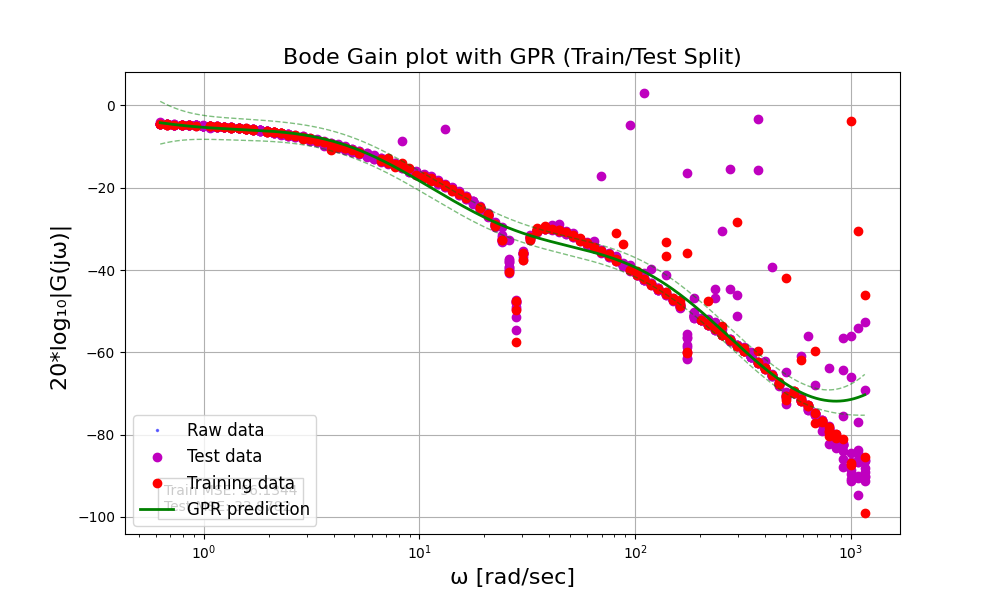
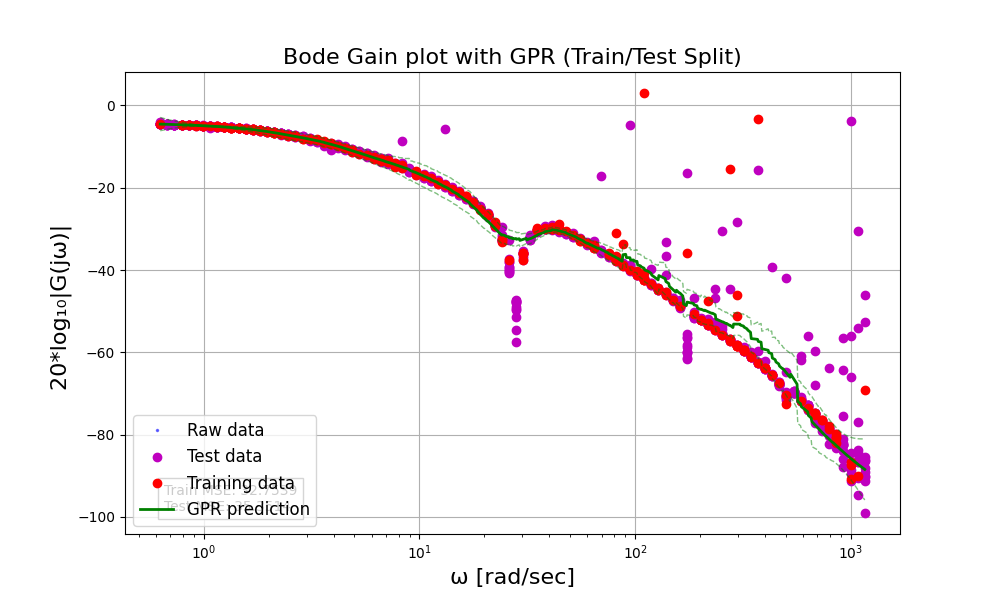
implement GP for small set of data point (including bag)

diff --git a/k_neighber_gauss_noise.py b/k_neighber_gauss_noise.py
@@ -1,0 +1,351 @@
+import numpy as np
+from scipy.optimize import minimize
+from scipy.linalg import cho_factor, cho_solve, det
+from sklearn.model_selection import train_test_split
+from sklearn.metrics import mean_squared_error
+import time
+import os
+import matplotlib.pyplot as plt
+
+"""
+Paper Reference:
+    "Noisy Input Gaussian Process Regression"
+    https://papers.nips.cc/paper_files/paper/2011/file/a8e864d04c95572d1aece099af852d0a-Paper.pdf
+
+"""
+class NIGP:
+    """
+    Noisy Input Gaussian Process (NIGP) implementation with k-nearest neighbors.
+
+    Approximates input noise effects via local linearization:
+      f(x_i) ≈ f(\bar{x}_i) + \nabla f(\bar{x}_i)^T (x_i - \bar{x}_i)
+    leading to output noise correction:
+      \tilde{\sigma}_{y,i}^2 = \sigma_y^2 + (\nabla f(\bar{x}_i))^T \Sigma_x (\nabla f(\bar{x}_i)).
+
+    Kernel: Sum of Constant and ARD RBF kernels
+      k(x, x') = const_var + \sigma_f^2 exp(-0.5 \sum_d ((x_d - x'_d)^2 / l_d^2))
+    """
+    def __init__(self, lengthscales, signal_var, noise_y, noise_x, const_var=1.0, k=None):
+        # hyperparameters
+        self.lengthscales = np.array(lengthscales)  # shape (D,)
+        self.signal_var = signal_var               # scalar
+        self.noise_y = noise_y                     # scalar
+        self.noise_x = np.array(noise_x)           # shape (D,)
+        self.const_var = const_var                 # constant kernel variance
+        self.k = k                                 # number of nearest neighbors to use (None=all points)
+
+    def _kernel(self, X1, X2):
+        # Constant kernel component
+        const_k = self.const_var * np.ones((X1.shape[0], X2.shape[0]))
+        
+        # ARD RBF kernel component
+        d = (X1[:, None, :] - X2[None, :, :]) / self.lengthscales
+        rbf_k = self.signal_var * np.exp(-0.5 * np.sum(d**2, axis=2))
+        
+        # Sum of kernels
+        return const_k * rbf_k
+
+    def _posterior_gradients(self, X, K_inv_y):
+        # Compute gradients of posterior mean at training inputs:
+        # \nabla f_i = sum_j \alpha_j \nabla_{x_i} k(x_i, x_j)
+        N, D = X.shape
+        grads = np.zeros((N, D))
+        for i in range(N):
+            # difference to all points
+            diff = (X[i] - X) / (self.lengthscales**2)
+            k_vec = self.signal_var * np.exp(-0.5 * np.sum(((X[i] - X)/self.lengthscales)**2, axis=1))
+            grads[i] = (k_vec * K_inv_y) @ diff  # shape (D,)
+        return grads
+
+    def _neg_log_marginal_likelihood(self, params, X, y, grads_fixed=None):
+        # params: [log lengthscales, log signal_var, log noise_y, log noise_x]
+        D = X.shape[1]
+        idx = 0
+        self.lengthscales = np.exp(params[idx: idx + D]); idx += D
+        self.signal_var = np.exp(params[idx]); idx += 1
+        self.noise_y = np.exp(params[idx]); idx += 1
+        self.noise_x = np.exp(params[idx: idx + D]); idx += D
+
+        K = self._kernel(X, X)
+        if grads_fixed is not None:
+            # heteroscedastic noise variance per point
+            corr = np.sum((grads_fixed**2) * self.noise_x[None, :], axis=1)
+            noise_vec = self.noise_y + corr
+        else:
+            noise_vec = self.noise_y * np.ones(X.shape[0])
+        K += np.diag(noise_vec)
+
+        # Cholesky for stable inverse and logdet
+        L, lower = cho_factor(K, lower=True)
+        alpha = cho_solve((L, lower), y)
+        nll = 0.5 * y.T @ alpha + np.sum(np.log(np.diag(L))) + 0.5 * len(y) * np.log(2 * np.pi)
+        return nll
+
+    def fit(self, X, y, iterations=3):
+        # initialize hyperparameters in log-space
+        D = X.shape[1]
+        init = np.log(np.hstack([self.lengthscales, self.signal_var, self.noise_y, self.noise_x]))
+        grads = None
+        for it in range(iterations):
+            # optimize marginal likelihood
+            res = minimize(self._neg_log_marginal_likelihood, init,
+                           args=(X, y, grads), method='L-BFGS-B')
+            init = res.x
+            # update hyperparameters
+            _ = self._neg_log_marginal_likelihood(res.x, X, y)
+            # compute posterior grads for next iteration
+            K = self._kernel(X, X) + np.eye(len(y)) * self.noise_y
+            L, lower = cho_factor(K, lower=True)
+            alpha = cho_solve((L, lower), y)
+            grads = self._posterior_gradients(X, alpha)
+        return self
+    
+    def _find_k_nearest(self, X_train, X_test_point):
+        """Find indices of k nearest neighbors for a test point"""
+        distances = np.sum((X_train - X_test_point)**2, axis=1)
+        if self.k is None or self.k >= len(distances):
+            return np.arange(len(distances))  # Use all points
+        return np.argsort(distances)[:self.k]  # Return k nearest indices
+
+    def predict(self, X_train, y_train, X_test):
+        N = X_train.shape[0]
+        M = X_test.shape[0]
+        mu = np.zeros(M)
+        var = np.zeros(M)
+        
+        # Compute full training gradients first (used for all predictions)
+        K_full = self._kernel(X_train, X_train)
+        L_full, lower_full = cho_factor(K_full + self.noise_y * np.eye(N), lower=True)
+        alpha_full = cho_solve((L_full, lower_full), y_train)
+        grads_full = self._posterior_gradients(X_train, alpha_full)
+        
+        # For each test point, use only k nearest neighbors
+        for i in range(M):
+            x_test_i = X_test[i:i+1]
+            
+            # Find k nearest neighbors
+            nn_idx = self._find_k_nearest(X_train, x_test_i[0])
+            X_nn = X_train[nn_idx]
+            y_nn = y_train[nn_idx]
+            grads_nn = grads_full[nn_idx]
+            
+            # Compute corrected noise vector for these neighbors
+            K_nn = self._kernel(X_nn, X_nn)
+            corr = np.sum((grads_nn**2) * self.noise_x[None, :], axis=1)
+            noise_vec = self.noise_y + corr
+            
+            # Recompute cholesky with corrected noise
+            K_nn += np.diag(noise_vec)
+            L_nn, lower_nn = cho_factor(K_nn, lower=True)
+            alpha_nn = cho_solve((L_nn, lower_nn), y_nn)
+            
+            # Make prediction
+            K_s = self._kernel(X_nn, x_test_i)
+            mu[i] = K_s.T @ alpha_nn
+            v = cho_solve((L_nn, lower_nn), K_s)
+            K_ss = self._kernel(x_test_i, x_test_i)
+            var[i] = np.diag(K_ss - K_s.T @ v)[0]
+            
+        return mu, var
+    
+def nigp_exact_predict(X_train, y_train, X_test, 
+                lengthscales, signal_var, noise_y, noise_x, k=None):
+    """
+    Exact moment matching predictor for NIGP (Section 4) with k-nearest neighbors.
+    - X_train: (N, D)
+    - y_train: (N,)
+    - X_test:  (M, D)
+    - lengthscales: (D,)
+    - signal_var: scalar σ_f^2
+    - noise_y: scalar σ_y^2
+    - noise_x: (D,) Σ_x diagonal
+    - k: number of nearest neighbors to use (None=all points)
+    Returns:
+    mu:  (M,)  predictive means
+    var: (M,)  predictive variances
+    """
+    N, D = X_train.shape
+    M, _ = X_test.shape
+    Λ = np.diag(lengthscales**2)
+    Σ_x = np.diag(noise_x)
+    
+    # ARD RBF kernel function
+    def ard_rbf(A, B):
+        diff = (A[:, None, :] - B[None, :, :]) / lengthscales
+        return signal_var * np.exp(-0.5 * np.sum(diff**2, axis=2))
+    
+    # Find k nearest neighbors function
+    def find_k_nearest(X_train, x_test):
+        distances = np.sum((X_train - x_test)**2, axis=1)
+        if k is None or k >= len(distances):
+            return np.arange(len(distances))  # Use all points
+        return np.argsort(distances)[:k]  # Return k nearest indices
+    
+    # Pre-compute D matrix for all training points
+    D_diag = np.zeros(N)  # Example: assume already computed
+    
+    # Prepare full kernel matrix and alpha for gradient computation
+    K_full = ard_rbf(X_train, X_train)
+    K_full += np.diag(noise_y + D_diag)
+    L_full, lower_full = cho_factor(K_full, lower=True)
+    alpha_full = cho_solve((L_full, lower_full), y_train)
+    
+    # 3. Compute prediction for each test point using k nearest neighbors
+    mu = np.zeros(M)
+    var = np.zeros(M)
+    for m in range(M):
+        x_star = X_test[m]
+        
+        # Find k nearest neighbors
+        nn_idx = find_k_nearest(X_train, x_star)
+        X_nn = X_train[nn_idx]
+        y_nn = y_train[nn_idx]
+        D_nn = D_diag[nn_idx]
+        
+        # Prepare kernel matrix for these neighbors
+        K_nn = ard_rbf(X_nn, X_nn)
+        K_nn += np.diag(noise_y + D_nn)
+        L_nn, lower_nn = cho_factor(K_nn, lower=True)
+        alpha_nn = cho_solve((L_nn, lower_nn), y_nn)
+        
+        # Compute q vector for these neighbors
+        diff = X_nn - x_star
+        exp_arg = -0.5 * np.sum(diff @ np.linalg.inv(Σ_x + Λ) * diff, axis=1)
+        norm_term = signal_var * det(Σ_x @ np.linalg.inv(Λ) + np.eye(D))**(-0.5)
+        q = norm_term * np.exp(exp_arg)
+        
+        mu[m] = q @ alpha_nn  # prediction mean
+        
+        # Compute Q matrix for variance
+        k1 = ard_rbf(X_nn, x_star[None, :]).ravel()
+        Q = np.zeros((len(nn_idx), len(nn_idx)))
+        inv_term = np.linalg.inv(Λ + 0.5 * Σ_x)
+        det_term = det(2 * Σ_x @ np.linalg.inv(Λ) + np.eye(D))**(-0.5)
+        
+        for i in range(len(nn_idx)):
+            for j in range(len(nn_idx)):
+                z = 0.5 * (X_nn[i] + X_nn[j])
+                exponent = (z - x_star) @ inv_term @ (z - x_star)
+                Q[i, j] = k1[i] * k1[j] * det_term * np.exp(exponent)
+        
+        # Compute variance
+        var[m] = (signal_var 
+                - np.trace(cho_solve((L_nn, lower_nn), Q)) 
+                + alpha_nn @ (Q @ alpha_nn) 
+                - mu[m]**2)
+
+    return mu, var
+
+# Import data
+try:
+    data = np.genfromtxt('result/merged.dat', delimiter=',')
+except:
+    try:
+        data = np.genfromtxt('/root/gauss_process/result/merged.dat', delimiter=',')
+    except:
+        # If the file doesn't exist, create some dummy data for illustration
+        print("Data file not found. Creating dummy data for illustration.")
+        omega = np.logspace(-1, 2, 100)
+        sys_gain_raw = 10 * (1 / (1 + 1j * omega / 10))
+        sys_gain_raw = np.abs(sys_gain_raw) + 0.2 * np.random.randn(len(omega))
+        arg_g_raw = np.angle(1 / (1 + 1j * omega / 10)) + 0.1 * np.random.randn(len(omega))
+        data = np.vstack((omega, sys_gain_raw, arg_g_raw))
+  
+# Transpose if necessary to get data in the right shape
+if data.shape[0] == 3:
+  omega = data[0, :]
+  sys_gain_raw = data[1, :]
+  arg_g_raw = data[2, :]
+else:
+  omega = data[:, 0]
+  sys_gain_raw = data[:, 1]
+  arg_g_raw = data[:, 2]
+
+# Sort data by frequency
+idx = np.argsort(omega)
+omega = omega[idx]
+sys_gain_raw = sys_gain_raw[idx]
+arg_g_raw = arg_g_raw[idx]
+
+print(f"Number of data points: {len(omega)}")
+
+# Remove noise using hampel filter
+
+sys_gain = sys_gain_raw
+arg_g = arg_g_raw
+G = sys_gain * np.exp(1j * arg_g)
+
+
+# Gaussian Process Regression for Gain
+X = np.log10(omega).reshape(-1, 1)
+Y = np.log10(sys_gain)*20
+
+# Split data into training and test sets (80% test, 20% train)
+
+X_train, X_test, Y_train, Y_test = train_test_split(X, Y, test_size=0.8, random_state=20)
+
+model = NIGP(lengthscales=[1.0], signal_var=1.0, noise_y=0.01, noise_x=[0.1],k=20)
+
+# 学習
+model.fit(X_train, Y_train, iterations=5)
+
+# テストデータに対する予測と訓練データに対する予測を一度に行う
+X_all = np.vstack([X_train, X_test])
+# Predict for training and test data
+mu_train, var_train = model.predict(X_train, Y_train, X_train)
+mu_test, var_test = model.predict(X_train, Y_train, X_test)
+
+# Calculate MSE for training and test sets
+mse_train = mean_squared_error(Y_train, mu_train)
+mse_test = mean_squared_error(Y_test, mu_test)
+print(f"Training MSE: {mse_train:.4f}")
+print(f"Test MSE: {mse_test:.4f}")
+
+# For timing (optional)
+calculate_time = True
+if calculate_time:
+    start = time.time()
+
+# Create result directory if it doesn't exist
+os.makedirs("result", exist_ok=True)
+
+# Generate finer grid for prediction
+omega_fine = np.logspace(np.log10(min(omega)), np.log10(max(omega)), 1000)
+X_fine = np.log10(omega_fine).reshape(-1, 1)
+
+# Predict using the model
+Y_pred_fine, Y_var_fine = model.predict(X_train, Y_train, X_fine)
+Y_std = np.sqrt(Y_var_fine)
+
+# Define filename for saving
+png_name = "gp_gain_spline_more"
+
+# Plot the GPR results for gain
+plt.figure(figsize=(10, 6))
+# Plot original data points
+plt.semilogx(omega, 20*np.log10(sys_gain_raw), 'b.', markersize=3, alpha=0.5, label='Raw data')
+# Plot training and test data points
+plt.semilogx(10**X_test, Y_test, 'mo', markersize=6, label='Test data')
+plt.semilogx(10**X_train, Y_train, 'ro', markersize=6, label='Training data')
+# Plot GPR prediction
+plt.semilogx(omega_fine, Y_pred_fine, 'g-', linewidth=2, label='GPR prediction')
+# Add confidence bounds (±2 standard deviations)
+plt.semilogx(omega_fine, (Y_pred_fine + 2*Y_std), 'g--', linewidth=1, alpha=0.5)
+plt.semilogx(omega_fine, (Y_pred_fine - 2*Y_std), 'g--', linewidth=1, alpha=0.5)
+# Add MSE text to plot
+plt.text(0.05, 0.05, f"Train MSE: {mse_train:.4f}\nTest MSE: {mse_test:.4f}", 
+  transform=plt.gca().transAxes, bbox=dict(facecolor='white', alpha=0.8))
+
+plt.xlabel('ω [rad/sec]', fontsize=16)
+plt.ylabel('20*log₁₀|G(jω)| ', fontsize=16)
+plt.title('Bode Gain plot with GPR (Train/Test Split)', fontsize=16)
+plt.legend(fontsize=12, loc='best')
+plt.grid(True)
+plt.savefig(f"/root/gauss_process/result/{png_name}_output.png")
+plt.close()
+
+
+if calculate_time:
+  end = time.time()
+  elapsed_time = end - start
+  print(f"Elapsed time: {elapsed_time:.2f} seconds")
